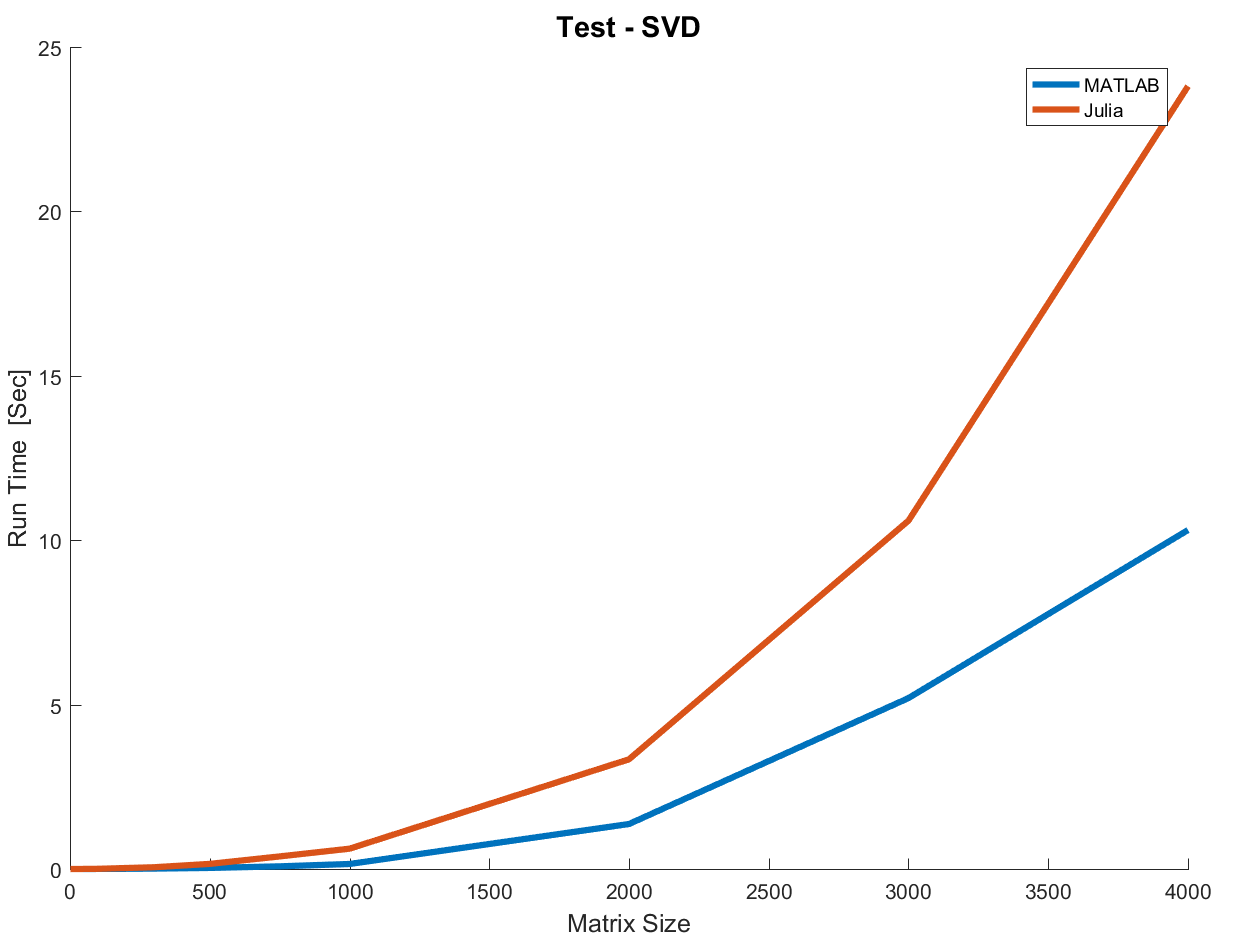
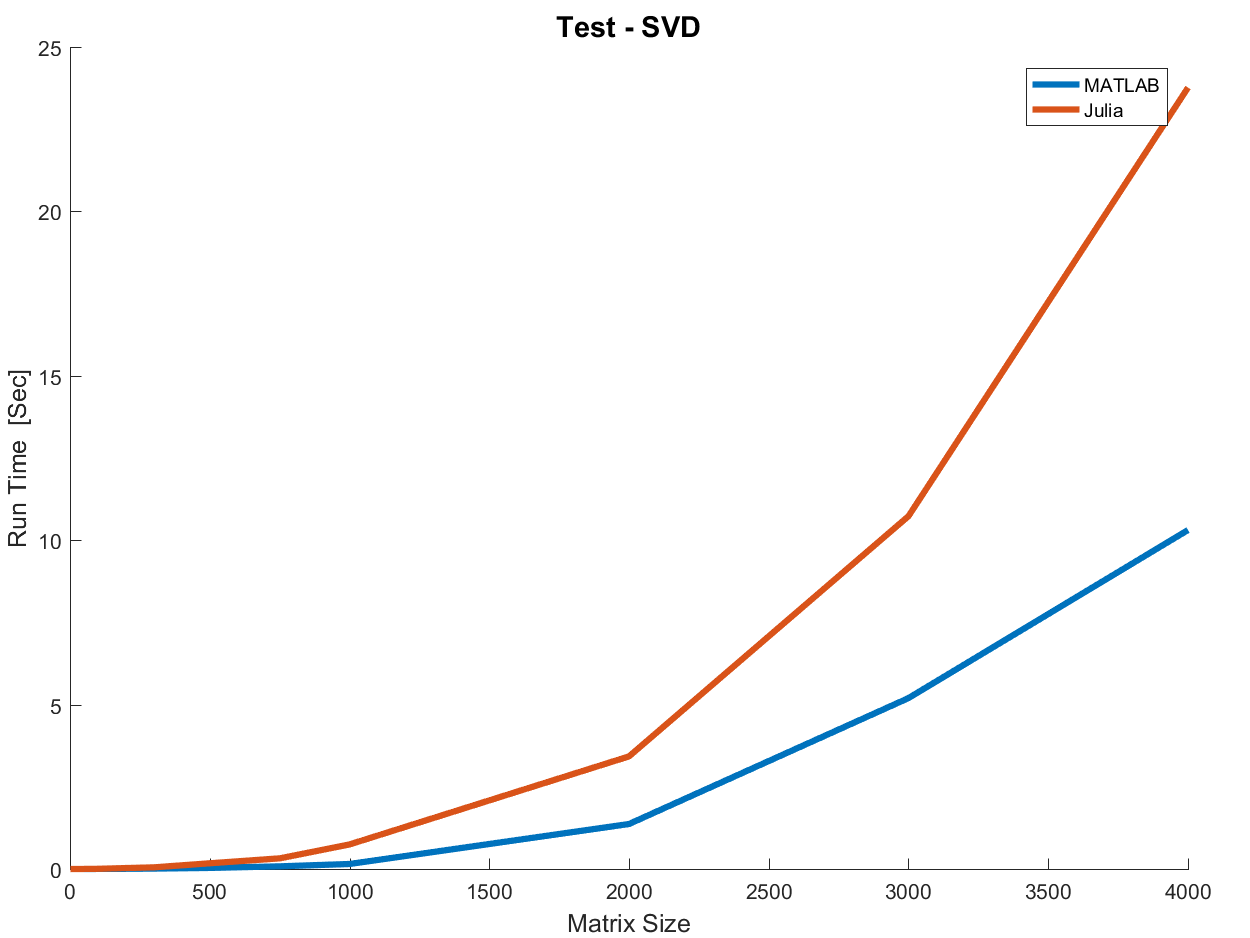
Version 1.0.001
New
	- 	Rerun Julia Test.
Fixed
	- 	B
To Do
	- 	C.

diff --git a/AnalyszeRunTimeResults.m b/AnalyszeRunTimeResults.m
@@ -26,13 +26,15 @@ cLegendString = {['MATLAB'], ['Julia']};
 figureIdx           = 0;
 figureCounterSpec   = '%04d';
 
-
-%% Setting Parameters
-
 vMatrixSize = [2, 5, 10, 20, 50, 100, 200, 300, 500, 750, 1000, 2000, 3000, 4000];
 cFunctionString = {['Matrix Generation'], ['Matrix Addition'], ['Matrix Multiplication'], ['Matrix Reductions'], ...
     ['Element Wise Operations'], ['SVD'], ['Eigen Decomposition'], ['Matrix Inversion'], ['Linear System Solution'], ...
     ['Linear Least Squares'], ['Cholesky Decomposition'], ['Squared Distance Matrix']};
+
+
+%% Setting Parameters
+
+generateImages = ON;
 
 
 %% Loading Data
@@ -74,8 +76,10 @@ for ii = 1:numTests
         'FontSize', fontSizeAxis);
     hLegend = ClickableLegend(cLegendString);
     
-    set(hAxes, 'LooseInset', [0.05, 0.05, 0.05, 0.05]);
-    saveas(hFigure,['Figure', num2str(figureIdx, figureCounterSpec), '.png']);
+    if(generateImages == ON)
+        set(hAxes, 'LooseInset', [0.05, 0.05, 0.05, 0.05]);
+        saveas(hFigure,['Figure', num2str(figureIdx, figureCounterSpec), '.png']);
+    end
 
 end
 
